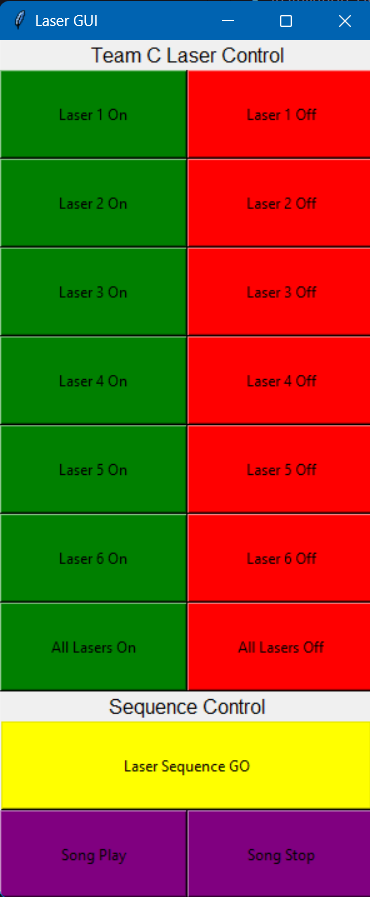
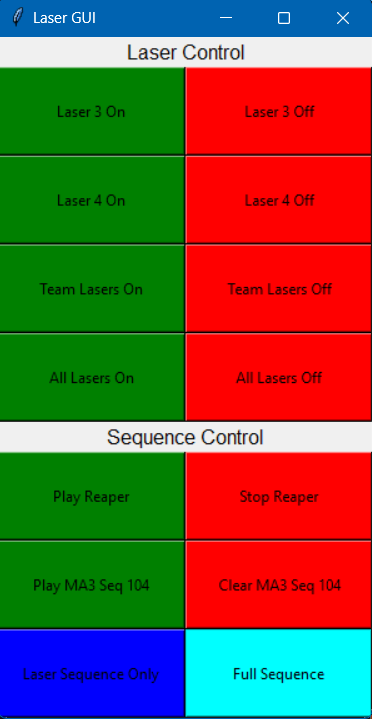
lots of patching still required

diff --git a/Final_Presentation/Codes/FP_Laser_GUI.py b/Final_Presentation/Codes/FP_Laser_GUI.py
@@ -5,32 +5,28 @@ import FP_Laser_Functions as r
 import FP_Laser_Sequence as l
 
 main = tk.Tk()
-main.title("Team C GUI")
+main.title("Laser GUI")
+laserLabel=tk.Label(main,text="Laser Control", font="20")
+teamLaserThree_On_Btn = tk.Button(main, text="Laser 3 On", bg="GREEN", width=20, height=4, command=l.teamLaserThree_On)
+teamLaserFour_On_Btn = tk.Button(main, text="Laser 4 On", bg="GREEN", width=20, height=4, command=l.teamLaserFour_On)
+teamAllLasers_On_Btn = tk.Button(main, text="Team Lasers On", bg="GREEN", width=20, height=4, command=l.teamAllLasers_On)
+teamLaserThree_Off_Btn = tk.Button(main, text="Laser 3 Off", bg="RED", width=20, height=4, command=l.teamLaserThree_Off)
+teamLaserFour_Off_Btn = tk.Button(main, text="Laser 4 Off", bg="RED", width=20, height=4, command=l.teamLaserFour_Off)
+teamAllLasers_Off_Btn = tk.Button(main, text="Team Lasers Off", bg="RED", width=20, height=4, command=l.teamAllLasers_Off)
+EveryLaserOn_Btn = tk.Button(main, text="All Lasers On", bg="GREEN", width=20, height=4, command=l.EveryLaserOn)
+EveryLaserOff_Btn = tk.Button(main, text="All Lasers Off", bg="RED", width=20, height=4, command=l.EveryLaserOff)
 
-tabLabelMA3=tk.Label(main,text="Laser Sequence.", font="20" )
+sequenceLabel=tk.Label(main,text="Sequence Control", font="20" )
 reaper_play_btn = tk.Button(main, text="Play Reaper", bg="GREEN",command=r.REA_JumpLaserMarker,width=20,height=4)
 reaper_stop_btn = tk.Button(main, text="Stop Reaper", bg="RED",command=r.REA_Stop,width=20,height=4)
 ma3_play_btn = tk.Button(main, text="Play MA3 Seq 104", bg="GREEN",command=r.MA3_Seq104,width=20,height=4)
 ma3_clear_btn = tk.Button(main, text="Clear MA3 Seq 104", bg="RED",command=r.MA3_Clear,width=20,height=4)
-laser_btn = tk.Button(main, text="Laser", bg="BLUE",command=r.LaserSeq,width=20,height=4)
-full_btn = tk.Button(main, text="Full", bg="CYAN",command=r.FullSeq,width=20,height=4)
+laser_btn = tk.Button(main, text="Laser Sequence Only", bg="BLUE",command=r.LaserSeq,width=20,height=4)
+full_btn = tk.Button(main, text="Full Sequence", bg="CYAN",command=r.FullSeq,width=20,height=4)
 
 
-main.title("Laser GUI")
-teamLabel=tk.Label(main,text="Team C Lasers", font="20")
-teamLaserThree_On_Btn = tk.Button(main, text="Laser 3 On", bg="GREEN", width=20, height=4, command=l.teamLaserThree_On)
-teamLaserFour_On_Btn = tk.Button(main, text="Laser 4 On", bg="GREEN", width=20, height=4, command=l.teamLaserFour_On)
-teamAllLasers_On_Btn = tk.Button(main, text="Team Lasers On", bg="GREEN", width=20, height=4, command=l.teamAllLasers_On)
 
-teamLaserThree_Off_Btn = tk.Button(main, text="Laser 3 Off", bg="RED", width=20, height=4, command=l.teamLaserThree_Off)
-teamLaserFour_Off_Btn = tk.Button(main, text="Laser 4 Off", bg="RED", width=20, height=4, command=l.teamLaserFour_Off)
-teamAllLasers_Off_Btn = tk.Button(main, text="Team Lasers Off", bg="RED", width=20, height=4, command=l.teamAllLasers_Off)
-
-LaserSequenceStart_Btn = tk.Button(main, text="Laser Sequence GO", bg="YELLOW", fg="BLACK", width=40, height=4,command=l.LaserSequence)
-EveryLaserOn_Btn = tk.Button(main, text="Every Lasers On", bg="GREEN", width=20, height=4, command=l.EveryLaserOn)
-EveryLaserOff_Btn = tk.Button(main, text="Every Lasers Off", bg="RED", width=20, height=4, command=l.EveryLaserOff)
-
-teamLabel.grid(row=0, column=0, columnspan=2)
+laserLabel.grid(row=0, column=0, columnspan=2)
 teamLaserThree_On_Btn.grid(row=1, column=0)
 teamLaserFour_On_Btn.grid(row=2, column=0)
 teamAllLasers_On_Btn.grid(row=3, column=0)
@@ -42,12 +38,12 @@ teamAllLasers_Off_Btn.grid(row=3, column=1)
 EveryLaserOn_Btn.grid(row=4, column=0)
 EveryLaserOff_Btn.grid(row=4, column=1)
 
-
-reaper_play_btn.grid(row=5,column=0)
-reaper_stop_btn.grid(row=5,column=1)
-ma3_play_btn.grid(row=6,column=0)
-ma3_clear_btn.grid(row=6,column=1)
-laser_btn.grid(row=7,column=0)
-full_btn.grid(row=7,column=1)
+sequenceLabel.grid(row=5, column=0, columnspan=2)
+reaper_play_btn.grid(row=6,column=0)
+reaper_stop_btn.grid(row=6,column=1)
+ma3_play_btn.grid(row=7,column=0)
+ma3_clear_btn.grid(row=7,column=1)
+laser_btn.grid(row=8,column=0)
+full_btn.grid(row=8,column=1)
 
 main.mainloop()

diff --git a/Final_Presentation/OSC/OSC.md b/Final_Presentation/OSC/OSC.md
@@ -13,8 +13,8 @@ Python Open Sound Control
 - [Code Hierarchy](#hierarchy) 👑
 - [Function Storage](#function-storage) 🗄
 - [Main GUI](#gui) 📟
-- [Reaper Storage for Lasers](#laser-reaper) 🔴
 - [Laser Sequence GUI](#laser-gui) 🔴📟
+- [Reaper Storage for Lasers](#laser-reaper) 🔴
 
 ## <a id="overview"> Overview 📃</a>
 
@@ -42,19 +42,19 @@ def send_message(receiver_ip, receiver_port, address, message):
 
 ## <a id="files-in-use"> Files In Use 📂</a>
 
-📄 - [Function Storage](https://github.com/uselesskcid/EGL314-Project-S.O.N.I.C-Team-C-POC/tree/main/MVP/Codes/MVP_FunctionStorage.py)
+📄 - [Function Storage](https://github.com/uselesskcid/EGL314-Project-S.O.N.I.C-Team-C-POC/tree/main/MVP/Codes/FP_FunctionStorage.py)
 
 The body of the project. Connects almost everything together.
 
-📄 - [Main GUI](https://github.com/uselesskcid/EGL314-Project-S.O.N.I.C-Team-C-POC/tree/main/MVP/Codes/MVP_MainGUI.py)
+📄 - [Main GUI](https://github.com/uselesskcid/EGL314-Project-S.O.N.I.C-Team-C-POC/tree/main/MVP/Codes/FP_MainGUI.py)
 
 The main GUI of the project. Capable of controlling grandMA3 and Reaper.
 
-📄 - [Laser Reaper](https://github.com/uselesskcid/EGL314-Project-S.O.N.I.C-Team-C-POC/blob/main/MVP/Codes/MVP_Laser_Reaper.py)
+📄 - [Laser Reaper](https://github.com/uselesskcid/EGL314-Project-S.O.N.I.C-Team-C-POC/blob/main/MVP/Codes/FP_Laser_Reaper.py)
 
-A scaled down version of the Function Storage, only having Reaper functions for the laser sequence.
+A scaled down version of the Function Storage, having functions for the laser sequence.
 
-📄 - [Laser Full](https://github.com/uselesskcid/EGL314-Project-S.O.N.I.C-Team-C-POC/blob/main/MVP/Codes/MVP_Laser_Full.py)
+📄 - [Laser Full](https://github.com/uselesskcid/EGL314-Project-S.O.N.I.C-Team-C-POC/blob/main/MVP/Codes/FP_Laser_Full.py)
 
 Contains everything related to the laser sequence, including starting it. Has a GUI that relies on the Laser Reaper file for functions.
 
@@ -131,7 +131,7 @@ The `fm` stands for our <b>First Marker's</b> timeline ID. Every subsequent mark
 
 For Reaper marker assignment, we were assigned marker IDs above 50. Due to Reaper action limitations, jumping to markers with marker IDs above 30 isn't possible. To work around this, we decided to jump marker according to their timeline IDs instead.
 
-Additionally, due to constant changes, the first marker's timeline ID changes, which results in changing every timeline ID we use in our marker functions. Hence, the `fm` was created for every marker we use to refer to the first one on the timeline that belongs to us. This results in only one change.
+Additionally, due to constant changes, our first marker's timeline ID changes, which results in changing every timeline ID we use in our marker functions. Hence, the variable `fm` was created for every marker we use to refer to the first one on the timeline that belongs to us. This results in only one change, our timeline ID for `fm`.
 
 ### Sequence
 
@@ -161,12 +161,6 @@ The GUI is only intended to be used by us operating the station, and not to be u
 
 The `Blackout` button clears all grandMA3 sequences and pauses the Reaper playback.
 
-## <a id="laser-reaper"> Reaper Storage for Lasers 🔴</a>
-
-The function storage for the laser modules only has Reaper marker jumping and playback. Functionally, it operates exactly the same way as the main storage.
-
-It's kept separate from the main file as we intend to differ the laser sequence codes from our station codes.
-
 ## <a id="laser-gui"> Laser Sequence GUI 🔴📟</a>
 
 <i>This section only focuses on the OSC part of the GUI. For more information regarding the laser sequence, click [here](https://github.com/uselesskcid/EGL314-Project-S.O.N.I.C-Team-C-POC/tree/main/MVP/Laser%20Sequence/Laser.md).</i>
@@ -176,7 +170,13 @@ Similar to the Main GUI, the GUI in the file `Laser_Full.py` relies on a storage
 ![](osc_assets/lasergui.png)
 
 It's seperated into two parts:
-1) Team Laser Control - for individual laser control of our laser modules
-2) Sequence Control - to play the entire sequence with audio, and to test music playback
+1) Laser Control - for control over our individual, team, or all lasers used in the laser sequence.
+2) Sequence Control - for music playback, lighting, raw laser sequence, and all of them combined into our final show.
 
 Just like the `Sequence` section in the main GUI, the playing of the entire sequence is comprised of many smaller functions.
+
+## <a id="laser-reaper"> Reaper Storage for Lasers 🔴</a>
+
+The function storage for the laser modules only has Reaper marker jumping and playback. Functionally, it operates exactly the same way as the main storage.
+
+It's kept separate from the main file as we intend to differ the laser sequence codes from our station codes.

diff --git a/Final_Presentation/Launchpad_(Ninja_Pulse)/Launchpad.md b/Final_Presentation/Launchpad_(Ninja_Pulse)/Launchpad.md
@@ -39,23 +39,23 @@ During each game mode, Players have to look out for audio cues and memorize the 
 
 ## <a id="files-in-use"> Files In Use 📂</a>
 
-📄 - [Main Page](https://github.com/uselesskcid/EGL314-Project-S.O.N.I.C-Team-C-POC/blob/main/MVP/Codes/MVP_MainPage.py)
+📄 - [Main Page](https://github.com/uselesskcid/EGL314-Project-S.O.N.I.C-Team-C-POC/blob/main/MVP/Codes/FP_MainPage.py)
 
 The main page of the game. Contains the suspense sequence to signify the 'activation' of the Ninja Pulse.
 
-📄 - [Easy Level Page](https://github.com/uselesskcid/EGL314-Project-S.O.N.I.C-Team-C-POC/blob/main/MVP/Codes/MVP_EasyLevelPage.py)
+📄 - [Easy Level Page](https://github.com/uselesskcid/EGL314-Project-S.O.N.I.C-Team-C-POC/blob/main/MVP/Codes/FP_EasyLevelPage.py)
 
 The easy level page of the game.
 
-📄 - [Hard Level Page](https://github.com/uselesskcid/EGL314-Project-S.O.N.I.C-Team-C-POC/blob/main/MVP/Codes/MVP_HardLevelPage.py)
+📄 - [Hard Level Page](https://github.com/uselesskcid/EGL314-Project-S.O.N.I.C-Team-C-POC/blob/main/MVP/Codes/FP_HardLevelPage.py)
 
 The hard level page of the game.
 
-📄 - [Launchpad Game Settings](https://github.com/uselesskcid/EGL314-Project-S.O.N.I.C-Team-C-POC/blob/main/MVP/Codes/MVP_LP_Game.py)
+📄 - [Launchpad Game Settings](https://github.com/uselesskcid/EGL314-Project-S.O.N.I.C-Team-C-POC/blob/main/FP/Codes/MVP_LP_Game.py)
 
 Used for keeping track of the player's inputs, as well as storing the answer keys. Also used for submit button functions and the triggering of win & lose sequences.
 
-📄 - [Function Storage](https://github.com/uselesskcid/EGL314-Project-S.O.N.I.C-Team-C-POC/tree/main/MVP/Codes/MVP_FunctionStorage.py)
+📄 - [Function Storage](https://github.com/uselesskcid/EGL314-Project-S.O.N.I.C-Team-C-POC/tree/main/MVP/Codes/FP_FunctionStorage.py)
 
 Used by the main page to trigger the suspense sequence at the start of the game. Also used by the launchpad game settings page to trigger the sequence in a win, and the lose sequence in a loss.
 
@@ -80,7 +80,7 @@ G --> S[Smoke Machine & DMX Fan]
 
 ### Main file
 
-The code file that we will only be running on our Raspberry Pi terminal is our **main file** which is the master file (`MVP_MainPage.py`) that sets up the whole game and  controls the running process of each individual game mode.
+The code file that we will only be running on our Raspberry Pi terminal is our **main file** which is the master file (`MainPage.py`) that sets up the whole game and  controls the running process of each individual game mode.
 
 - The orange start button is coded inside the main file to start and load the whole game on the Launchpad.
 
@@ -89,7 +89,7 @@ The code file that we will only be running on our Raspberry Pi terminal is our *
 - More modules are imported in this file such as ```time```, ```subprocess``` and ```threading``` in order to create functions to run one difficulty mode at a time.
 
 ### Easy mode file
-The layout for easy mode shows up when the file `MVP_EasyLevelPage` is loaded. 
+The layout for easy mode shows up when the file `EasyLevelPage` is loaded. 
 - Players can input the directions "Left" and "Right" with the input buttons.
 - The code contains the design layout for Easy mode on the Launchpad. 
 - The easy sequence play button on **Button ID 11** is coded with a function to play the easy mode audio sequence.

diff --git a/Final_Presentation/FinalPresentation.md b/Final_Presentation/FinalPresentation.md
@@ -16,7 +16,7 @@
 ## <a id="overview"> Overview 📃</a>
 This repository folder contains all the notable assets, codes and others used for our Final Production in Week 17 that covers our station - Memory Sequence.
 
-In the Minimum Viable Product, we will be using a Master Station shared with others. The Master Station hosts 3 different open-source softwares, which are Reaper, L-ISA Controller and GrandMA3. Besides software, there are 12 speakers in a 10 by 10 meters room shared as well.
+We will be using a Master Station shared with others. The Master Station hosts 3 different open-source softwares, which are Reaper, L-ISA Controller and GrandMA3. Besides software, there are 12 speakers in a 10 by 10 meters room shared as well.
 
 The final demonstration will feature a full run through of our station. This includes an introduction, 2 difficulty levels, followed by a win/lose sequence. Once the game ends, we are to segway into our laser show as a wrap up. 
 
@@ -24,7 +24,7 @@ The final demonstration will feature a full run through of our station. This inc
 ## <a id="getting-started"> Getting Started 🔛</a>
 ### Installation Guide
 
-1⃣ Your first stop! [Take a gander](https://github.com/uselesskcid/EGL314-Project-S.O.N.I.C-Team-C-POC/blob/main/Final_Presentation/Documentation/Installation_Guide.md) as to how we installed everything, as well as how you can do it too.
+1⃣ Your first stop! [Take a gander](https://github.com/uselesskcid/EGL314-Project-S.O.N.I.C-Team-C-POC/blob/main/Final_Presentation/Installation/Installation_Guide.md) as to how we installed everything, as well as how you can do it too.
 
 ### Software & Hardware Overview
 
@@ -32,7 +32,7 @@ The final demonstration will feature a full run through of our station. This inc
 
 🔳 <b>L-ISA's</b> spatial object mixing takes our gameplay one step higher. [Go in-depth](https://github.com/uselesskcid/EGL314-Project-S.O.N.I.C-Team-C-POC/blob/main/Final_Presentation/L-ISA_Controller/L-ISA.md) into the specifics of what goes on.
 
-🔳 <b>grandMA3</b> provides a lighting control platform for our station. [Watch]((https://github.com/uselesskcid/EGL314-Project-S.O.N.I.C-Team-C-POC/blob/main/Final_Presentation/GrandMA3/grandma3.md)) as our work comes to light.
+🔳 <b>grandMA3</b> provides a lighting control platform for our station. [Watch](https://github.com/uselesskcid/EGL314-Project-S.O.N.I.C-Team-C-POC/blob/main/Final_Presentation/GrandMA3/grandma3.md) as our work comes to light.
 
 🔳 Our softwares used are operated by <b>PythonOSC.</b> [See how](https://github.com/uselesskcid/EGL314-Project-S.O.N.I.C-Team-C-POC/blob/main/Final_Presentation/OSC/OSC.md) a humble laptop can control our entire system.
 

diff --git a/Final_Presentation/Installation/Installation_Guide.md b/Final_Presentation/Installation/Installation_Guide.md
@@ -34,7 +34,9 @@ References can be found below.
 
 ## <a id="rasp-pi"> Raspberry Pi Configuration ⚙</a>
 
-Unfortunately with default configurations, it isn't possible to install packages using pip, a package installer for Python. To bypass, it's necessary to download a virtual environment on your Raspberry Pi.
+Unfortunately with default configurations, it isn't possible to install packages using pip, a package installer for Python.
+
+To bypass, it's necessary to download a virtual environment on your Raspberry Pi. Then, installing and running PythonOSC on it will be authorised.
 
 1) Install Python virtual environment
 
@@ -122,7 +124,7 @@ python3 grandma.py
 ## <a id="reaper">Reaper Configuration 🎛</a>
 
 1) Use the shortcut `Ctrl+P` to go to Reaper Preferences 
-2) Scroll all the way to the bottom to Control/OSC/Web
+2) Scroll all the way to the bottom to Control/OSC/web
 3) Click on `Add` to add a new OSC device 
 
 ![](installation_assets/Reaper_Step2to3.png)

diff --git a/Final_Presentation/Reaper_DAW/Reaper.md b/Final_Presentation/Reaper_DAW/Reaper.md
@@ -30,7 +30,7 @@ Open Source Control (OSC) messages are sent from a Raspberry Pi to Reaper DAW th
 
 This folder contains every audio effect used in the creation of the audio tracks, mixing and soundscape.
 
-📄 - [Master Reaper DAW file](https://github.com/uselesskcid/EGL314-Project-S.O.N.I.C-Team-C-POC/tree/main/MVP/Reaper_DAW/314MAINREAPER_POC_FINAL.rpp)
+📄 - [Master Reaper DAW file](https://github.com/uselesskcid/EGL314-Project-S.O.N.I.C-Team-C-POC/tree/main/FP/Reaper_DAW/314MAINREAPER_POC_FINAL.rpp)
 
 This the the Reaper DAW file that runs on the Master Station Laptop. It contains not just the audio tracks and audio mixing for Station 5, but also the other 4 stations and 5 laser sequences.
 

diff --git a/Final_Presentation/GrandMA3/grandma3.md b/Final_Presentation/GrandMA3/grandma3.md
@@ -4,7 +4,7 @@ grandMA3
 
 <p align="center">
   <i align="center">
-  Rundown of grandMA3
+  Rundown of lighting sequences in grandMA3.
   </i>
 </p>
 
